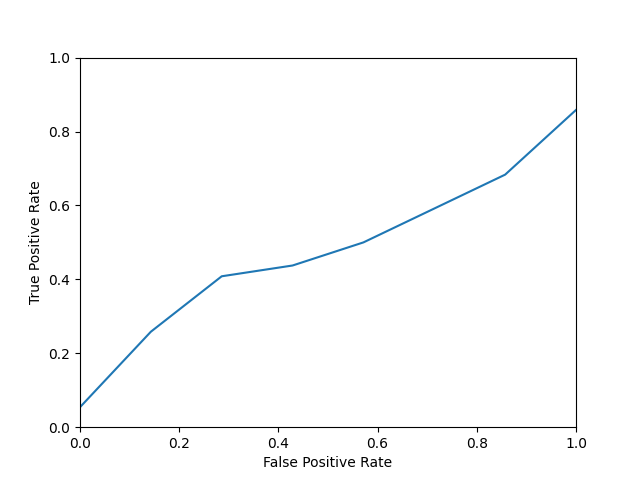
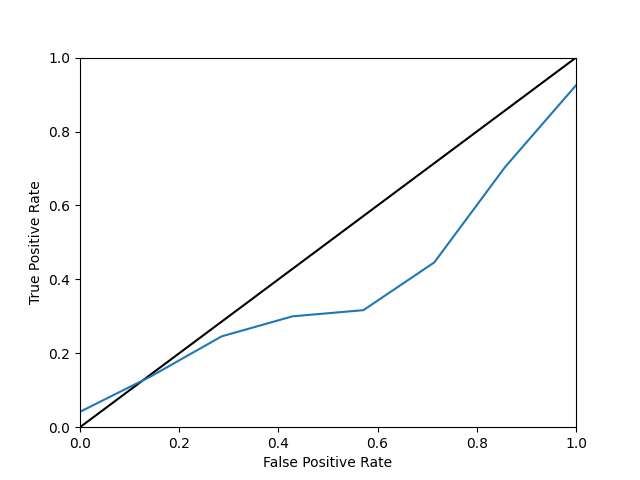
plotted roc for ag-news-t5-large

diff --git a/eval.py b/eval.py
@@ -15,6 +15,7 @@ y_true = np.concatenate([zeros, ones])
 
 fpr, tpr, thresholds = roc_curve(y_true, y_score, pos_label=1, drop_intermediate=False)
 
+sns.lineplot(x=[0, 1], y=[0, 1], color='black')
 sns.lineplot(x=fpr, y=tpr, errorbar=None)
 plt.xlim(0.0, 1.0)
 plt.ylim(0.0, 1.0)
